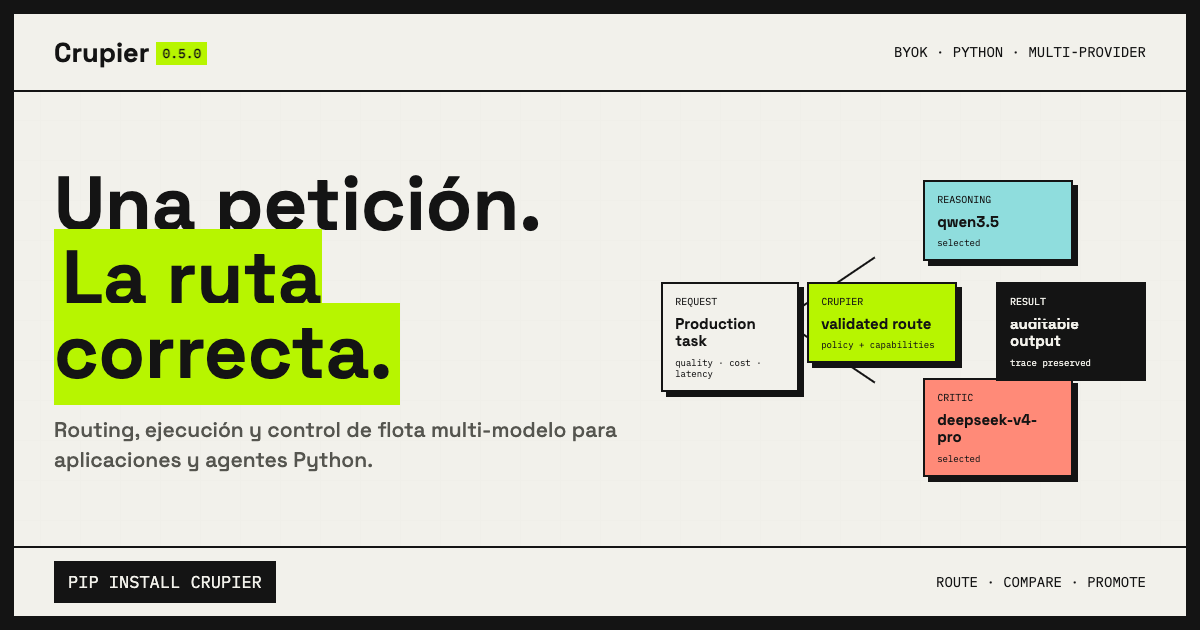
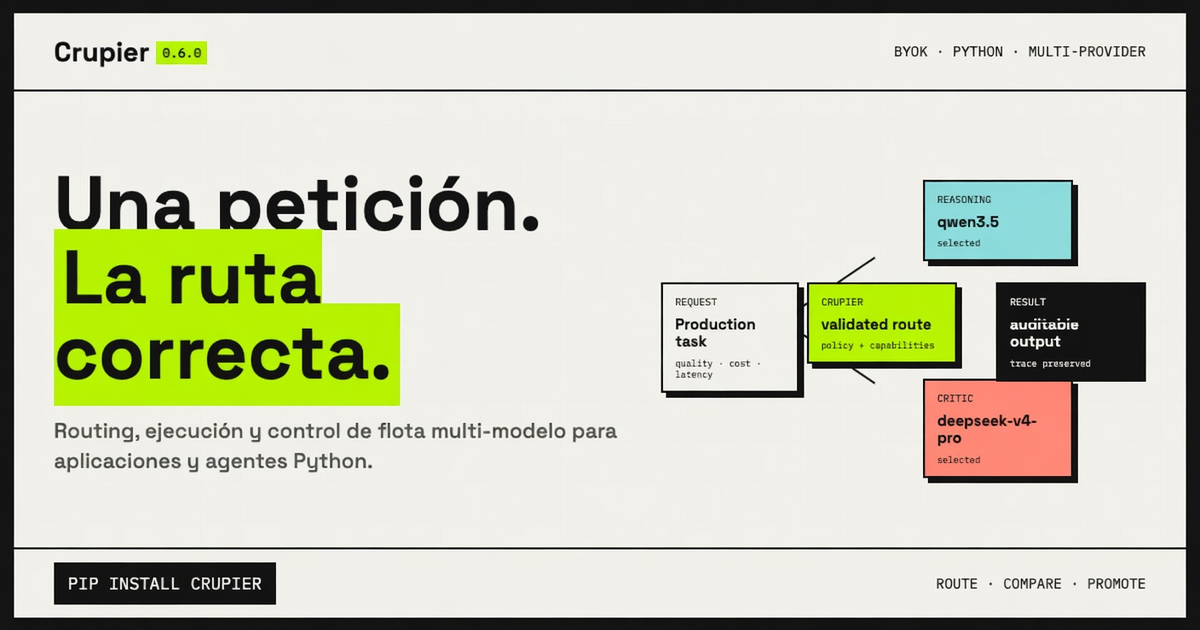
docs: alinear la landing con Crupier 0.6.0
La versión pública, el JSON-LD, la tarjeta social y el validador pasan
a 0.6.0. El sample HTTP muestra el bearer obligatorio, el plano de
control documenta fail-closed y el validador no deja volver a un
servidor live sin Authorization.

diff --git a/site/index.html b/site/index.html
@@ -3,7 +3,7 @@
   <head>
     <meta charset="utf-8">
     <meta name="viewport" content="width=device-width, initial-scale=1">
-    <meta name="description" content="Crupier 0.5.0 es el SDK Python BYOK para seleccionar y ejecutar rutas multi-modelo, operar shadow y canary, mantener sesiones y auditar aprobaciones.">
+    <meta name="description" content="Crupier 0.6.0 es el SDK Python BYOK para routing multi-modelo, shadow y canary, sesiones y un plano de control fail-closed.">
     <meta name="author" content="686f6c61">
     <meta name="robots" content="index, follow, max-image-preview:large, max-snippet:-1, max-video-preview:-1">
     <meta name="theme-color" content="#f2f1eb">
@@ -13,7 +13,7 @@
     <meta property="og:site_name" content="Crupier">
     <meta property="og:url" content="https://crupier.686f6c61.dev/">
     <meta property="og:title" content="Crupier · Una petición. La ruta correcta.">
-    <meta property="og:description" content="Orquestación y control de flota para Python: routing multi-modelo, shadow y canary, sesiones con replan y aprobaciones auditables.">
+    <meta property="og:description" content="Orquestación y control de flota para Python: routing multi-modelo, shadow y canary, sesiones y fail-closed ante hosts, políticas y secretos.">
     <meta property="og:image" content="https://crupier.686f6c61.dev/og-crupier.png">
     <meta property="og:image:secure_url" content="https://crupier.686f6c61.dev/og-crupier.png">
     <meta property="og:image:type" content="image/png">
@@ -24,7 +24,7 @@
     <meta name="twitter:card" content="summary_large_image">
     <meta name="twitter:creator" content="@686f6c61">
     <meta name="twitter:title" content="Crupier · Una petición. La ruta correcta.">
-    <meta name="twitter:description" content="SDK Python BYOK para seleccionar, ejecutar y operar rutas multi-modelo en producción.">
+    <meta name="twitter:description" content="SDK Python BYOK para seleccionar, ejecutar y operar rutas multi-modelo con un plano de control fail-closed.">
     <meta name="twitter:image" content="https://crupier.686f6c61.dev/og-crupier.png">
     <meta name="twitter:image:alt" content="Crupier conecta una petición con una ruta multi-modelo validada.">
 
@@ -40,14 +40,14 @@
         "@context": "https://schema.org",
         "@type": "SoftwareSourceCode",
         "name": "Crupier",
-        "description": "SDK Python BYOK para seleccionar, ejecutar y operar rutas multi-modelo con shadow, canary, sesiones y aprobaciones auditables.",
+        "description": "SDK Python BYOK para seleccionar, ejecutar y operar rutas multi-modelo con shadow, canary, sesiones y un plano de control fail-closed.",
         "url": "https://crupier.686f6c61.dev/",
         "image": "https://crupier.686f6c61.dev/og-crupier.png",
         "codeRepository": "https://github.com/686f6c61/crupier",
         "downloadUrl": "https://pypi.org/project/crupier/",
         "programmingLanguage": "Python",
         "runtimePlatform": "Python 3.11+",
-        "version": "0.5.0",
+        "version": "0.6.0",
         "license": "https://opensource.org/licenses/MIT",
         "author": {
           "@type": "Person",
@@ -68,7 +68,7 @@
 
     <header class="site-header">
       <a class="brand" href="#top">
-        <span>Crupier</span><mark>0.5.0</mark>
+        <span>Crupier</span><mark>0.6.0</mark>
       </a>
       <nav class="site-nav" aria-label="Navegación principal">
         <a href="#runtime">Runtime</a>
@@ -86,7 +86,7 @@
           <p class="eyebrow">BYOK · Python · multi-provider</p>
           <h1 id="hero-title">Una petición.<br><mark>La ruta correcta.</mark></h1>
           <p class="hero-lede">
-            Crupier clasifica la tarea, filtra por capacidades y política, y deja que un LLM proponga el patrón de ejecución y los modelos. Después valida el plan, ejecuta cada rol y permite comparar, aprobar y evolucionar la ruta con evidencia.
+            Crupier clasifica la tarea, filtra por capacidades y política, y deja que un LLM proponga el patrón de ejecución y los modelos. Después valida el plan, ejecuta cada rol y permite comparar, aprobar y evolucionar la ruta con evidencia. Lo que no está permitido no degrada: falla cerrado.
           </p>
           <div class="install-line" role="group" aria-label="Comando de instalación">
             <code>pip install crupier</code>
@@ -98,7 +98,7 @@
       <section class="route-lab" aria-labelledby="route-lab-title">
         <div class="route-lab-head page-shell">
           <div>
-            <p class="eyebrow">Traza real · 2026-07-15</p>
+            <p class="eyebrow">Rutas de ejemplo · 0.6.0</p>
             <h2 id="route-lab-title">El reparto cambia con la tarea</h2>
           </div>
           <div class="route-tabs" role="tablist" aria-label="Seleccionar tipo de ruta">
@@ -133,16 +133,16 @@
         <div class="page-shell section-heading inverted">
           <p class="eyebrow">Request lifecycle</p>
           <h2 id="runtime-title">El LLM propone. La política decide si puede.</h2>
-          <p>Cada fase deja evidencia. Ningún modelo se salta la allowlist, las capacidades requeridas o el presupuesto del proyecto.</p>
+          <p>Cada fase deja evidencia. Ningún modelo se salta la allowlist, las capacidades requeridas o el presupuesto. Una política malformada no se convierte en allow-all; aborta.</p>
         </div>
         <ol class="runtime-flow page-shell">
           <li><span>01</span><strong>Clasificar</strong><small>task signals + operación</small></li>
-          <li><span>02</span><strong>Filtrar</strong><small>policy + capabilities</small></li>
+          <li><span>02</span><strong>Filtrar</strong><small>fail-closed + capabilities</small></li>
           <li><span>03</span><strong>Puntuar</strong><small>calidad + coste + latencia</small></li>
           <li><span>04</span><strong>Orquestar</strong><small>LLM + candidate cards</small></li>
           <li><span>05</span><strong>Validar</strong><small>schema + route shape</small></li>
           <li><span>06</span><strong>Ejecutar</strong><small>roles + tools + fallback</small></li>
-          <li><span>07</span><strong>Trazar</strong><small>calls + budget + errors</small></li>
+          <li><span>07</span><strong>Trazar</strong><small>calls + redact + errors</small></li>
         </ol>
       </section>
 
@@ -234,7 +234,7 @@
           <div class="section-heading">
             <p class="eyebrow">Production control plane</p>
             <h2 id="control-title">Cambia modelos.<br>Sin operar a ciegas.</h2>
-            <p>La decisión no termina cuando sale una respuesta. Crupier conserva el contexto operativo para comparar candidatos, replanificar conversaciones y congelar rutas que necesitan revisión humana.</p>
+            <p>La decisión no termina cuando sale una respuesta. Crupier conserva el contexto operativo para comparar candidatos, replanificar conversaciones, congelar rutas que necesitan revisión humana y fallar cerrado cuando un host, una política o un secreto no deberían seguir.</p>
           </div>
 
           <div class="control-lanes">
@@ -265,6 +265,15 @@
               </div>
               <code>freeze → review → execute</code>
             </article>
+            <article class="control-lane">
+              <span class="control-number">04</span>
+              <div>
+                <p class="eyebrow">Fail-closed</p>
+                <h3>Hosts, política y secretos</h3>
+                <p>Las claves canónicas no salen a un host ajeno salvo <code>allow_custom_host</code>. Una regla de política malformada aborta. Los secretos se redactan. El servidor HTTP exige bearer en ejecución real y rechaza controles internos en el cuerpo OpenAI.</p>
+              </div>
+              <code>deny → redact → require auth</code>
+            </article>
           </div>
         </div>
       </section>
@@ -279,7 +288,7 @@
               <li><span class="contract-label">Native</span><span class="contract-copy"><code>deal</code>, <code>session</code>, embeddings, audio e imagen.</span></li>
               <li><span class="contract-label">Control</span><span class="contract-copy">Experimentos, aprobaciones y rutas persistidas.</span></li>
               <li><span class="contract-label">Drop-in</span><span class="contract-copy">Cliente Python compatible con OpenAI.</span></li>
-              <li><span class="contract-label">HTTP</span><span class="contract-copy">Responses, Chat, embeddings, rerank, audio e imágenes.</span></li>
+              <li><span class="contract-label">HTTP</span><span class="contract-copy">Bearer en ejecución real; Responses, Chat, embeddings, rerank, audio e imágenes.</span></li>
               <li><span class="contract-label">CLI</span><span class="contract-copy">Discovery, probes, evals, approvals, experiments y releases.</span></li>
             </ul>
           </div>
@@ -320,6 +329,9 @@
               <th scope="row">Routing multi-modelo</th><td><span class="state live">Ejecutable</span></td><td>Patrones validados, presupuesto compartido, retry, circuit breaker, fallback y quorum.</td>
             </tr>
             <tr class="boundary-row">
+              <th scope="row">Fail-closed</th><td><span class="state live">Ejecutable</span></td><td>Hosts no oficiales, política inválida, redacción central, bearer en <code>serve</code> y rechazo de paths locales en JSON.</td>
+            </tr>
+            <tr class="boundary-row">
               <th scope="row">Shadow y canary</th><td><span class="state live">Ejecutable</span></td><td>Cohortes sticky, ejecución paralela o asíncrona, métricas sin outputs por defecto y promoción reversible.</td>
             </tr>
             <tr class="boundary-row">
@@ -346,7 +358,7 @@
 
       <section class="final-cta" aria-labelledby="cta-title">
         <div class="page-shell">
-          <p class="eyebrow">Crupier 0.5.0</p>
+          <p class="eyebrow">Crupier 0.6.0</p>
           <h2 id="cta-title">Tu aplicación pide.<br><mark>Crupier reparte.</mark></h2>
           <div class="cta-actions">
             <a class="primary-action" href="https://github.com/686f6c61/crupier">Ver el código</a>

diff --git a/site/app.js b/site/app.js
@@ -315,11 +315,13 @@ print(response.choices[0].message.content)`,
   },
   server: {
     filename: "terminal.sh",
-    code: `crupier serve --port 8787 --no-dry-run
+    code: `export CRUPIER_SERVER_TOKEN
+crupier serve --port 8787 --no-dry-run
 
 export OPENAI_BASE_URL="http://127.0.0.1:8787/v1"
 
 curl "$OPENAI_BASE_URL/responses" \\
+  -H "Authorization: Bearer $CRUPIER_SERVER_TOKEN" \\
   -H "Content-Type: application/json" \\
   -d '{
     "model": "gpt-5.4-mini",
@@ -331,6 +333,7 @@ curl "$OPENAI_BASE_URL/responses" \\
     code: `crupier init
 crupier models discover --provider openai
 crupier capabilities readiness --strict
+crupier release check --skip-build
 
 crupier route \\
   "Compare two implementation plans" \\

diff --git a/site/social-card.html b/site/social-card.html
@@ -193,7 +193,7 @@
   <body>
     <div class="card">
       <header>
-        <div class="brand">Crupier<span class="version">0.5.0</span></div>
+        <div class="brand">Crupier<span class="version">0.6.0</span></div>
         <div class="kicker">BYOK · Python · multi-provider</div>
       </header>
       <main>

diff --git a/site/styles.css b/site/styles.css
@@ -804,6 +804,10 @@ h3 {
   background: var(--coral);
 }
 
+.control-lane:nth-child(4)::before {
+  background: var(--yellow);
+}
+
 .control-number {
   grid-column: 1;
   grid-row: 1;

diff --git a/site/validate.py b/site/validate.py
@@ -31,7 +31,7 @@ REQUIRED_FILES = (
 )
 PUBLIC_MODEL_PROVIDERS = {"anthropic", "google", "ollama", "openai"}
 ALLOWED_EXTERNAL_SCRIPTS = {"https://analytics.686f6c61.dev/script.js"}
-SITE_VERSION = "0.5.0"
+SITE_VERSION = "0.6.0"
 
 
 class SiteParser(HTMLParser):
@@ -222,9 +222,17 @@ def validate() -> list[str]:
 
     if f"Crupier {SITE_VERSION}" not in html:
         fail(errors, f"site does not expose release version {SITE_VERSION}")
-    for required_text in ("Una petición", "Patrones de ejecución completos", "Qué todavía no"):
+    for required_text in (
+        "Una petición",
+        "Patrones de ejecución completos",
+        "Qué todavía no",
+        "Fail-closed",
+        "allow_custom_host",
+    ):
         if required_text not in html:
             fail(errors, f"missing required product statement: {required_text}")
+    if "Authorization: Bearer $CRUPIER_SERVER_TOKEN" not in js:
+        fail(errors, "HTTP sample must show the live-server bearer contract")
 
     combined = "\n".join((html, css, js))
     if re.search(r"(?:linear|radial|conic)-gradient\s*\(", css, flags=re.IGNORECASE):

diff --git a/README.md b/README.md
@@ -1,7 +1,7 @@
 # Crupier Landing
 
 Static production site for [crupier.686f6c61.dev](https://crupier.686f6c61.dev/).
-This branch presents Crupier `0.5.0`; package source, installation guidance,
+This branch presents Crupier `0.6.0`; package source, installation guidance,
 release notes, and developer documentation live on
 [`main`](https://github.com/686f6c61/crupier/tree/main).
 
@@ -23,7 +23,7 @@ Nginx.
 python3 site/validate.py
 python3 "$HOME/.codex/skills/crear-landing-html/scripts/audit_landing.py" \
   site/index.html --strict
-docker build -f Dockerfile.site -t crupier-landing:0.5.0 .
+docker build -f Dockerfile.site -t crupier-landing:0.6.0 .
 ```
 
 Open `site/index.html` directly for content and layout checks. Validate the
